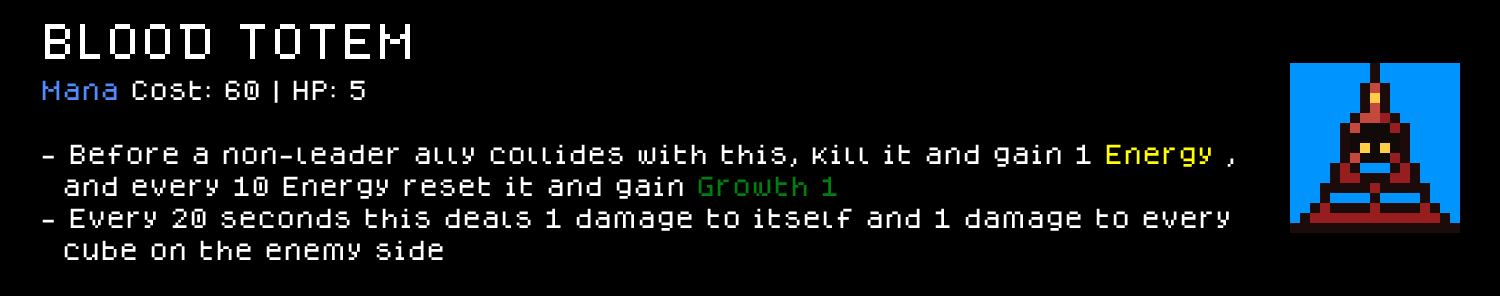
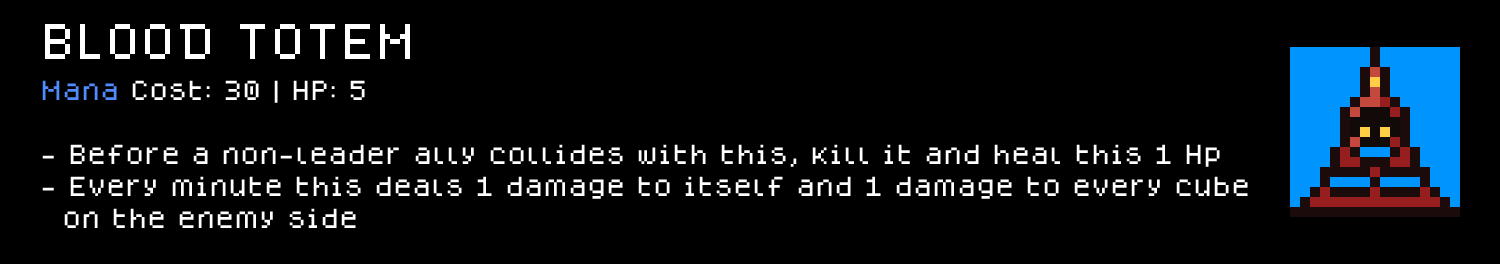
Blood Totem/Cultist finetuning

diff --git a/.claude/skills/cube-chaos-scripting/references/gotchas-grepped.md b/.claude/skills/cube-chaos-scripting/references/gotchas-grepped.md
@@ -21,4 +21,5 @@ conversion (TOKEN→IDENT).
   Don't default to `FreePlacement` just because a cube is "droppable" in casual phrasing — confirm which of these two the requester actually means, since they produce very different placement/AI behavior and (per `references/authoring-and-inheritance.md`'s substitution-cascade section) very different compatibility obligations with anything that already spawns that cube via an `Ability:` chain.
 - **`StrengthX` is `GenericStacking`-based** (`Base_Core/1Compounds.c.txt:748-751`: `StrengthX / BeforeThisDealsDamage NegateX Minus GenericStacking`), confirming a real, working `GainAbilityStacking` call against it does what it looks like. The Unholy mod's `Plague_Ritual` (`Unholy_Cubes.c.txt`) uses `GainAbilityStacking StrengthX 0 AmountOfCubesWhich ...` to grant each spawned `Plague_Imp` a `Strength` equal to its touching-cube count — per the `GenericStacking`-vs-`GenericConstant` distinction above, this is the sound case (unlike trying the same trick on a `GenericConstant` ability like `ExplodesX`), so the perk's rule text ("each gaining 1 Strength per touching cube") is accurate as written.
 - **`Secret Action` (`ModdingInfo.txt:267`) has zero confirmed working precedent anywhere** — not in any base-game file, and (as of 2026-07-25) no longer in any mod either: the General mod's `General-Undead` synergy perk was the only user in this whole repo, wrapping `GainAbility Undead` on a spawned Parachute, and it was removed on user instruction ("Undead does not need to be secret there") rather than ever being verified. What it actually does (hide the ability from the target's own tooltip? something else entirely?) is still unknown. If a future ask specifically wants an ability granted-but-hidden-from-tooltip, don't reach for `Secret` on the assumption it does that — there's no evidence either way, so treat it as genuinely untested DSL surface and verify via a real test-launch + tooltip check before relying on it. `Silent Action` (do it without triggering any *other* ability) is the well-documented, well-precedented wrapper for a different purpose — don't confuse the two.
+- **A bare terminal action like `HealXDamage DOUBLE`/`TakeXDamage DOUBLE`/`ChangeHp DOUBLE` has no ambient-Caster fallback once you're outside every `TargetCube` scope — it silently no-ops rather than erroring, no log warning either.** `TargetCube CUBE Action` only sets the implicit receiver *within its own trailing `Action` argument*; once that argument tree ends (e.g. after `Both TargetCube Victim Die`, back at the outer `Both`'s second slot), there is no receiver at all, not a fallback to `Caster`. Confirmed real: Unholy's `Blood_Totem` (`Unholy_Cubes.c.txt`) had `Both TargetCube Victim Die` then a bare `HealXDamage DoubleConstant 1` as the second `Both` branch, intending to heal the totem (`Caster`) 1 hp per kill — it parsed clean, loaded clean, the kill worked, but the totem's hp never moved (user-observed in-game: allies died on contact, hp stayed at 4/5 instead of climbing to 5/5). Fix: wrap it explicitly, `TargetCube Caster HealXDamage DoubleConstant 1`, matching the same file's own periodic-tick ability which already self-targets this way (`Both TargetCube Caster TakeXDamage DoubleConstant 1`). **Every real usage of `HealXDamage`/`TakeXDamage` found in this repo and the base game wraps it in an explicit `TargetCube`** — never assume a bare one "obviously" means Caster just because that's the trigger's own subject.
 - **Index-based ability iteration, for when you need to compare/dedupe abilities by value rather than act on each independently:** combine a counted `SetVariable`+`Until`+`ChangeVariable` loop (see `Base_Core/1Compounds.c.txt`'s `AddDepthRow` for the idiom) with `NthAbilityOfCubeWhich DOUBLE CUBE BOOLEAN` (1-indexed) instead of `EveryAbilityOfCubeWhich`, specifically because `NthAbilityOfCubeWhich`'s index argument is a plain `DOUBLE` with no ability-typed `Test`/`Target` binding of its own — so it can be called *inside* a nested `IsSameAbility`/`AmountOfAbilitiesOfCubeWhich` predicate without the inner search's own `Test` shadowing the ability you're trying to reference (the exact cross-scope problem `Storage` solves for `CUBE`, but there is no ability-typed equivalent of `Storage`). Iterate the index **downward** (`AmountOfAbilitiesOfCube` down to `1`, stopping once `IsSmaller <idx> 1`) when the loop body removes abilities — removing at the current index only shifts indices *above* it (already visited), never the ones still to come, so a descending walk stays correct without needing to re-snapshot the list. Real usage, the DJ mod's `Added_Variance` perk (`DJ/DJ_Perks.c.txt`): for each index, check `IsLarger (AmountOfAbilitiesOfCubeWhich Target (IsSameAbility Test (NthAbilityOfCubeWhich <idx> Target True))) DoubleConstant 1` and `RemoveAbility (NthAbilityOfCubeWhich <idx> Target True)` if true — self-correcting even though every duplicate instance re-triggers the same check, since by the time a later (lower-index) duplicate is reached the count has already dropped to 1 and the condition no longer fires.

diff --git a/GameData/Unholy/DESIGN.md b/GameData/Unholy/DESIGN.md
@@ -100,7 +100,7 @@ new starters (all but `Ritual`/`Cultist`) also carry `TYPE Starter` (inventory-s
 
 ### `Blood_Totem` implementation notes
 
-A stationary "feed it allies, it pays back scaling hp regen" engine piece — not a 0HP cube, not a
+A stationary "feed it allies, it pays back direct hp" engine piece — not a 0HP cube, not a
 combat body. Exact numbers live in `Unholy_Cubes.c.txt`; the design shape:
 
 - **Kill-on-contact uses `BeforeThisCollides`, matching the base game's own `Void` cube exactly**
@@ -113,15 +113,18 @@ combat body. Exact numbers live in `Unholy_Cubes.c.txt`; the design shape:
   (losing your leader = instant loss). The base game's own `DeadlyX` keyword independently excludes
   leaders from its own "kill" effect ("Kill the next STACKING 1 **non leader** cubes this damages",
   `ModdingInfo.txt:101`), which is the precedent this guard follows.
-- **Kill counter uses `EnergyX`, not an opaque internal `EveryXTimes` counter — user's own suggested
-  fix.** An earlier draft used `EveryXTimes 10` (fires every 10th matching trigger) to gate the Growth
-  grant; the user pointed out this hides the count from the player, and proposed reusing the base
-  game's own `EnergyX` `STACKING` ability as a *visible* counter instead (its own tooltip is just
-  `Energy: N`, ModdingInfo.txt:117 — no side effects of its own, i.e. exactly a generic display
-  counter). Implementation: `GainAbilityStacking EnergyX 0 1` on every kill, then
-  `If Not IsSmaller GetStackingOfAbilityOnCube EnergyX Caster 10` triggers
-  `ChangeAbilityStacking EnergyX -10` (reset) + `GainAbilityStacking GrowthX 0 1` (the payoff). Player
-  can now watch the totem's Energy stack climb toward the next Growth tick on its own tooltip.
+- **Kill payoff simplified from a visible `EnergyX`/`GrowthX` stacking counter to a direct,
+  ungated `HealXDamage 1` per kill — user request, 2026-07-25.** The original draft counted kills via
+  a visible `EnergyX` stacking ability and paid out `GrowthX` (permanent max-hp growth) every 10th
+  kill; the user asked to drop the counting entirely and have each kill just heal the totem 1 hp on
+  the spot, no cap. Net effect: the totem no longer grows permanently stronger over a game, it just
+  sustains its own hp off ally sacrifices, as often as it gets fed.
+- **The 1-minute rate limit lives on the periodic damage tick, not the kill-on-contact heal —
+  user correction, 2026-07-25.** An earlier draft put a `Cooldown 3600` on the `BeforeThisCollides`
+  kill+heal instead; the user clarified the cooldown belongs on the *other* ability (the one that
+  already had a periodic 20s cadence), so `EveryXSeconds DoubleConstant 20` became
+  `EveryXSeconds DoubleConstant 60` (that ability's own `DOUBLE` argument is literally seconds, not
+  ticks — unlike `Cooldown`) and the kill-on-contact heal is ungated again.
 - **"Enemy territory" (the periodic damage tick) implemented as position-based, not
   faction-of-cube-based** — `EveryCubeWhich Not IsEqual PlacabilityOfPosition PositionOfCube Test FactionOfCube Caster TakeXDamage 1`,
   reusing the same `PlacabilityOfPosition` check this mod's own
@@ -129,11 +132,14 @@ combat body. Exact numbers live in `Unholy_Cubes.c.txt`; the design shape:
   section above). This means a friendly cube that ends up pushed onto the enemy's side would also take
   the tick — a deliberate reading of "territory" as literal board geography, not "all enemy cubes",
   flagged to and accepted by the user at design time.
-- **Self-damage is a genuine soft-kill clock, not just flavor.** At 5 max hp and 1 self-damage per 20s
-  tick, the totem dies on its own in ~100 seconds unless the Growth payoff (healing over time) offsets
-  it — i.e. the totem only sustains itself if the player actually feeds it ally kills. This mirrors the
-  mod's existing self-damage subtheme (`Molten_Brimstone`'s self+touching tick, the Imp/`Acidic`
+- **Self-damage is a genuine soft-kill clock, not just flavor.** At 5 max hp and 1 self-damage per
+  minute tick, the totem dies on its own in ~5 minutes unless it's fed ally kills (each kill heals 1
+  hp, uncapped) — i.e. the totem only sustains itself if the player actually feeds it. This mirrors
+  the mod's existing self-damage subtheme (`Molten_Brimstone`'s self+touching tick, the Imp/`Acidic`
   friendly-fire choice) rather than being a new pattern.
+- **Mana cost halved 60 → 30 — user request, 2026-07-25**, alongside the above simplification
+  (no rationale given beyond the ask; the totem's kit is strictly weaker without the Growth payoff, so
+  the cheaper cost tracks that).
 
 ## `Phylactery` — soul-echo perk
 
